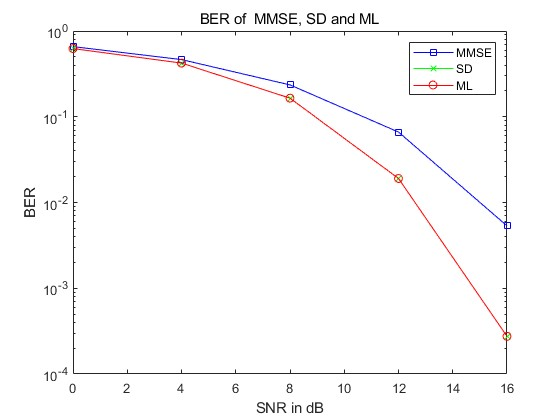
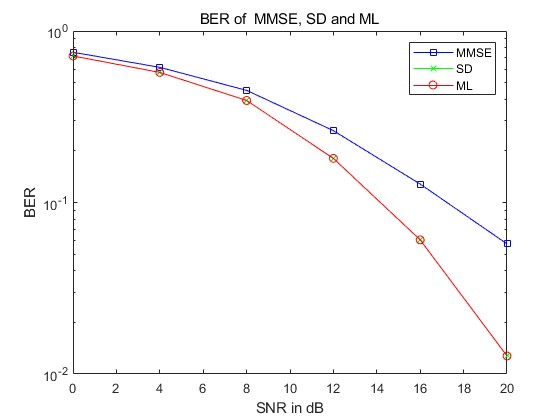
k-best

diff --git a/k_best_SD.m b/k_best_SD.m
@@ -8,11 +8,12 @@ Nrx = 2;
 sym_QAM = 16;  
 iteration = 400;
 num_symbol = 200;
+k_best_num = 4;
 
 SNR_dB = 0:4:20; % in dB
 SNR = 10.^(SNR_dB./10);
 
-errors_ML = zeros(length(SNR_dB),1);
+errors_KB = zeros(length(SNR_dB),1);
 errors_MMSE = zeros(length(SNR_dB),1);
 errors_SD = zeros(length(SNR_dB),1);
 
@@ -20,7 +21,7 @@ qam_symbol =0:1:sym_QAM-1;
 qam_signal = qammod(qam_symbol, sym_QAM, 'UnitAveragePower', true); 
 
 PED_count_SD = zeros(length(SNR_dB),1);
-PED_count_ML = zeros(length(SNR_dB),1);
+PED_count_KB = zeros(length(SNR_dB),1);
 
 
 for l = 1:length(SNR_dB)
@@ -35,28 +36,18 @@ for l = 1:length(SNR_dB)
         %MMSE
         w_MMSE = (H'*H+N0*eye(Ntx))\H';
         y_MMSE = w_MMSE * y;
-        %ML
-        x_hat = zeros(Ntx, num_symbol);
 
-        for index_symbol = 1: num_symbol
-            Min = inf;
-            for i = 1:sym_QAM
-                for j = 1 : sym_QAM
-                    temp_x_signal = [qam_signal(i);qam_signal(j)];
-                    temp = norm(y(:,index_symbol)-H*temp_x_signal);
-                    PED_count_ML(l) = PED_count_ML(l)+ 1;
-                    if temp < Min
-                        x_hat(:,index_symbol) = temp_x_signal;
-                        Min = temp;
-                    end
-
-                end
-
-            end
-
+        %K-Best
+        x_hat_KB = zeros(Ntx, num_symbol);
+        index_symbol = 1;
+        while index_symbol <= num_symbol
+            [r,count] = kbest(H, y(:, index_symbol), qam_signal, k_best_num);
+            
+            x_hat_KB(:, index_symbol) = r;
+            PED_count_KB(l) = PED_count_KB(l) + count;
+            index_symbol = index_symbol + 1;
         end
         
-
         %SD
         near_Q = find_near_Q(y_MMSE,1/sqrt(10));
         % Q is the Constellation diagram
@@ -75,11 +66,12 @@ for l = 1:length(SNR_dB)
                 index_symbol = index_symbol + 1;
             end
         end
+
         QAM_demod_MMSE = qamdemod(y_MMSE,sym_QAM, 'UnitAveragePower', true);
-        QAM_demod_ML = qamdemod(x_hat,sym_QAM, 'UnitAveragePower', true);
+        QAM_demod_KB = qamdemod(x_hat_KB,sym_QAM, 'UnitAveragePower', true);
         QAM_demod_SD = qamdemod(x_hat_SD,sym_QAM, 'UnitAveragePower', true);
         errors_MMSE(l) = errors_MMSE(l) + sum(sum(QAM_demod_MMSE~=txsymbol_QAM));
-        errors_ML(l) = errors_ML(l) + sum(sum(QAM_demod_ML~=txsymbol_QAM));
+        errors_KB(l) = errors_KB(l) + sum(sum(QAM_demod_KB~=txsymbol_QAM));
         errors_SD(l) = errors_SD(l) + sum(sum(QAM_demod_SD~=txsymbol_QAM));
         
     end
@@ -88,22 +80,22 @@ end
 
 error_rate_MMSE = errors_MMSE/(iteration*num_symbol*Ntx);
 error_rate_SD = errors_SD/(iteration*num_symbol*Ntx);
-error_rate_ML = errors_ML/(iteration*num_symbol*Ntx);
+error_rate_KB = errors_KB/(iteration*num_symbol*Ntx);
 
 figure;
-semilogy(SNR_dB,error_rate_MMSE,'b-s',SNR_dB,error_rate_SD,'g-x',SNR_dB,error_rate_ML,'r-o');
-legend('MMSE','SD','ML');
-title('BER of  MMSE, SD and ML');
+semilogy(SNR_dB,error_rate_MMSE,'b-s',SNR_dB,error_rate_SD,'g-x',SNR_dB,error_rate_KB,'r-o');
+legend('MMSE','SD','KB');
+title('BER of  MMSE, SD and KB');
 xlabel('SNR in dB');
 ylabel('BER');
 
 figure; % 创建新图形窗口
 plot(SNR_dB, PED_count_SD, '-o'); % 绘制第一组数据
 hold on; % 保持当前图形
-plot(SNR_dB, PED_count_ML, '-x'); % 绘制第二组数据
+plot(SNR_dB, PED_count_KB, '-x'); % 绘制第二组数据
 
 % 添加图例
-legend('SD','ML');
+legend('SD','KB');
 
 % 添加标题和轴标签
 title('PED times on different SNR');
@@ -207,5 +199,63 @@ x_hard_i(X_i <= 0 & X_i >= -2*d) = -1*d;
 x_hard_i(X_i > 0 & X_i <= 2*d) = 1*d;
 
 x_hard = x_hard_r + x_hard_i * 1i;
+
+end
+
+function [r,count_KB] = kbest(H, y, symbset, k)
+
+[Q, R] = qr(H, 0);
+z = Q'*y;
+n = size(H,2);
+
+d = 0;
+SYMBSETSIZE = length(symbset(:));
+distance = zeros(n,k);
+temp_distance = zeros(k,SYMBSETSIZE);
+RETVAL        = zeros(n, 1);
+TMPVAL        = zeros(n, 1);
+TMPSET        = zeros(n, k);
+k_best_symbset = zeros(n, k);
+count_KB = 0;
+
+for layer = n : -1 :1
+    if layer == n
+        for ii = 1:SYMBSETSIZE
+            TMPVAL(layer) = symbset(ii);
+            temp_distance(k,ii) = abs(z(layer) - R(layer,[layer:end])*TMPVAL(layer:end))^2 + temp_distance(k,ii);
+            count_KB = count_KB+ 1;
+        end
+    
+        [temp_distance_asc,sort_index] = sort(temp_distance(k,:));
+        k_best_symbset(n,:) = symbset(sort_index(1:k));
+        distance(n,:) = temp_distance(k,sort_index(1:k));
+
+    else
+        for i_kbest = 1:k
+            TMPVAL(layer+1:end) = k_best_symbset(layer+1:end,i_kbest);
+            for ii = 1:SYMBSETSIZE
+
+                TMPVAL(layer) = symbset(ii);
+                temp_distance(i_kbest,ii) = abs(z(layer) - R(layer,[layer:end])*TMPVAL(layer:end))^2 + distance(layer+1,i_kbest);
+                count_KB = count_KB+ 1;
+            end
+            
+        end
+    
+        [temp_distance_asc,sort_index] = sort(temp_distance(:));
+        pos2 = mod(sort_index(1:k),4);
+        pos2(pos2 == 0) = pos2(pos2 == 0) + 4;
+        k_best_symbset(layer+1,:) = k_best_symbset(layer+1,pos2);
+        pos2_layer1 = fix((sort_index(1:k)-0.1)/4)+1;
+        k_best_symbset(layer,:) = symbset(pos2_layer1);
+        
+        r = k_best_symbset(:,1);
+        
+    end
+
+
+    
+end
+
 
 end

diff --git a/k_best.m b/k_best.m
@@ -24,9 +24,10 @@ PED_count_ML = zeros(length(SNR_dB),1);
 
 k_best_num = 4;
 
-txsymbol_QAM = [1,2,3,4,5;1,2,3,4,5]; % 生成0到15之间的整数作为符号
+txsymbol_QAM = [8;6]; % 生成0到15之间的整数作为符号
 txsignal_QAM = qammod(txsymbol_QAM, sym_QAM, 'UnitAveragePower', true); % 使用灰度映射调制符号
-H = [1,0;0,1];
+H = [0.7,0.3;0.3,0.78];
+% H = [1,0;0,1];
 
 function [r,count] = sphdec(H, y, symbset, radius)
 
@@ -113,7 +114,7 @@ end
 
 r = kbest(H,txsignal_QAM,qam_signal,k_best_num);
 
-
+demod = qamdemod(r, sym_QAM, 'UnitAveragePower', true);
 
 
 function r = kbest(H, y, symbset, k)
@@ -124,19 +125,56 @@ n = size(H,2);
 
 d = 0;
 SYMBSETSIZE = length(symbset(:));
-temp_distance = zeros(n,SYMBSETSIZE);
+distance = zeros(n,k);
+temp_distance = zeros(k,SYMBSETSIZE);
 RETVAL        = zeros(n, 1);
 TMPVAL        = zeros(n, 1);
+TMPSET        = zeros(n, k);
+k_best_symbset = zeros(n, k);
+
+
+
+
 
 for layer = n : -1 :1
-    for ii = 1:SYMBSETSIZE
-        TMPVAL(layer) = symbset(ii);
-        temp_distance(layer-1,ii) = abs(z(layer) - R(layer,[layer:end])*TMPVAL(layer:end))^2 + temp_distance(layer,ii);
+    if layer == n
+        for ii = 1:SYMBSETSIZE
+            TMPVAL(layer) = symbset(ii);
+            temp_distance(k,ii) = abs(z(layer) - R(layer,[layer:end])*TMPVAL(layer:end))^2 + temp_distance(k,ii);
+        end
+    
+        [temp_distance_asc,sort_index] = sort(temp_distance(k,:));
+        k_best_symbset(n,:) = symbset(sort_index(1:k));
+        distance(n,:) = temp_distance(k,sort_index(1:k));
+
+    else
+        for i_kbest = 1:k
+            TMPVAL(layer+1:end) = k_best_symbset(layer+1:end,i_kbest);
+            for ii = 1:SYMBSETSIZE
+
+                TMPVAL(layer) = symbset(ii);
+                temp_distance(i_kbest,ii) = abs(z(layer) - R(layer,[layer:end])*TMPVAL(layer:end))^2 + distance(layer+1,i_kbest);
+            end
+            
+        end
+    
+        [temp_distance_asc,sort_index] = sort(temp_distance(:));
+        pos2 = mod(sort_index(1:k),4);
+        pos2(pos2 == 0) = pos2(pos2 == 0) + 4;
+        k_best_symbset(layer+1,:) = k_best_symbset(layer+1,pos2);
+        k_best_symbset(layer,:) = symbset(fix(sort_index(1:k)/4)+1);
+        
+        r = k_best_symbset(:,1);
+        
     end
-    [temp_distance_asc,sort_index] = sort(temp_distance);
-    k_best_symbset = symbset(sort_index(1:k));
+
+
+    
+end
 
 
 end
-end
+
+
+
 

diff --git a/untitled.m b/untitled.m
@@ -1,22 +1,9 @@
-figure; % 创建新图形窗口
-plot(SNR_dB, PED_count_SD, '-o'); % 绘制第一组数据
-hold on; % 保持当前图形
-plot(SNR_dB, PED_count_ML, '-x'); % 绘制第二组数据
+clear;
+close all;
 
-% 添加图例
-legend('SD','ML');
+% 示例数值
+a = 10;
+b = 3;
 
-% 添加标题和轴标签
-title('PED times on different SNR');
-xlabel('SNR (dB)');
-ylabel('PED calculation tiumes');
-
-% 显示网格
-grid on;
-
-figure;
-semilogy(SNR_dB,error_rate_MMSE,'b-s',SNR_dB,error_rate_SD,'g-x',SNR_dB,error_rate_ML,'r-o');
-legend('MMSE','SD','ML');
-title('BER of  MMSE, SD and ML');
-xlabel('SNR in dB');
-ylabel('BER')
+% 使用反斜杠进行整除运算
+result = fix(a / b);
